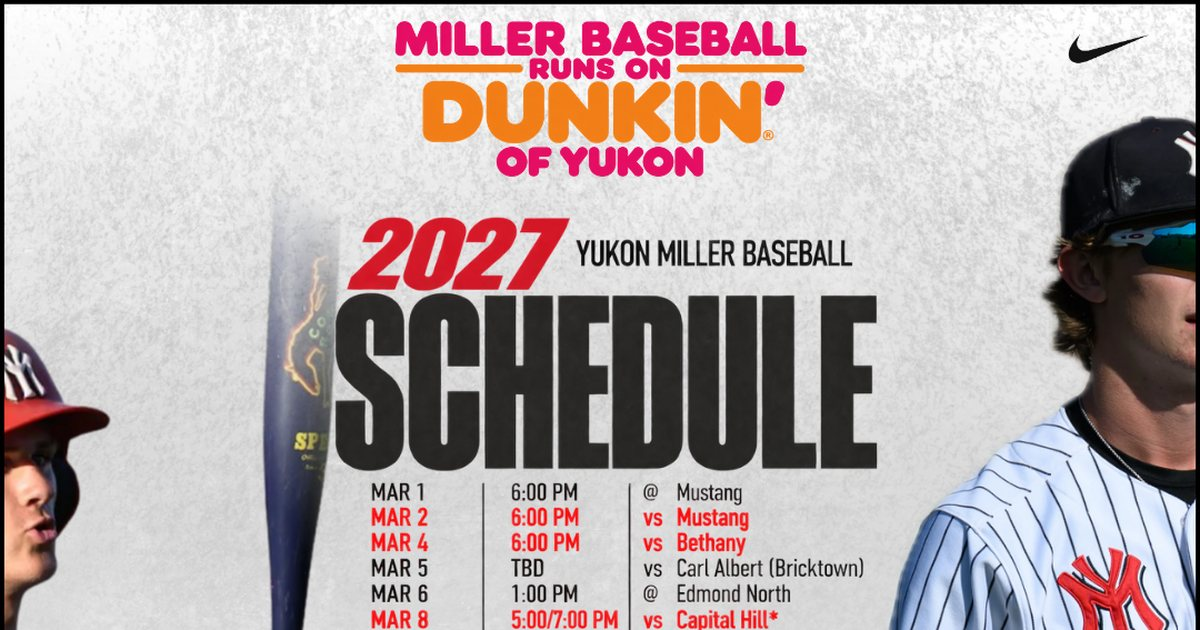
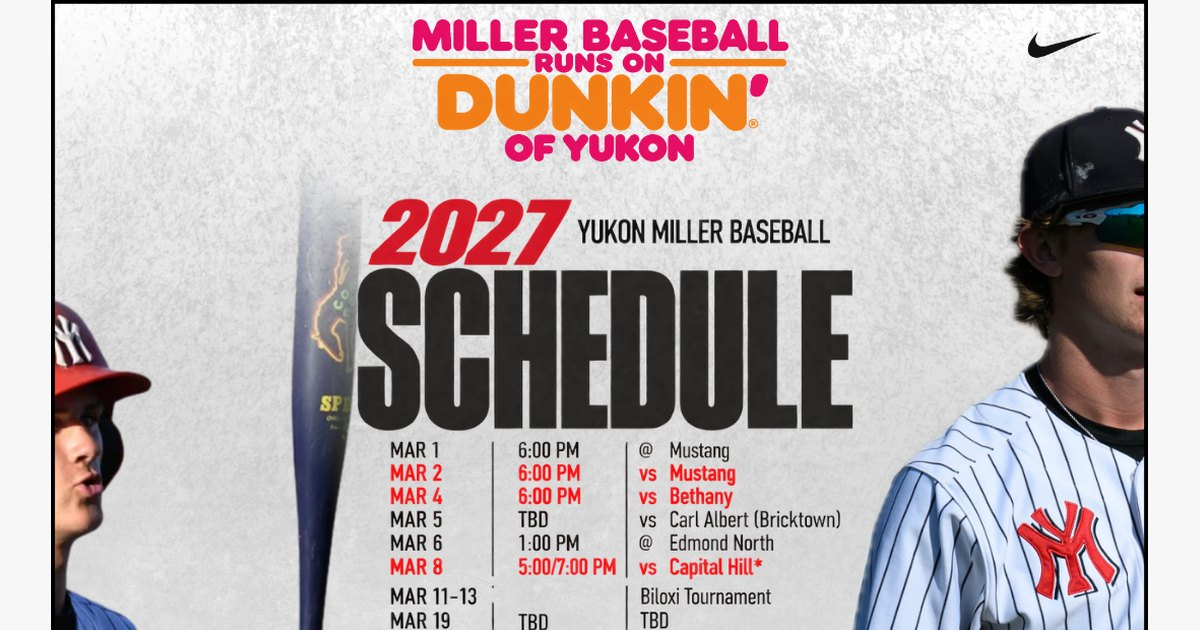
Add dedicated schedule graphic crops for home, news, and shares.
Homepage uses a wide banner, the news list uses a card crop, and social shares use the 1200x630 schedule graphic.

diff --git a/src/components/article-card-image.tsx b/src/components/article-card-image.tsx
@@ -4,19 +4,28 @@ import Image from "next/image";
 
 export function ArticleCardImage({
   image,
+  variant = "card",
   className,
 }: {
   image: ArticleImage;
+  variant?: "card" | "banner";
   className?: string;
 }) {
+  const chosen =
+    variant === "banner" && image.banner
+      ? image.banner
+      : variant === "card" && image.card
+        ? image.card
+        : image;
+
   return (
     <Image
-      src={image.src}
+      src={chosen.src}
       alt={image.alt}
-      width={image.width}
-      height={image.height}
+      width={chosen.width}
+      height={chosen.height}
       className={cn("object-cover", className)}
-      style={{ objectPosition: image.focus ?? "center 22%" }}
+      style={{ objectPosition: chosen.focus ?? image.focus ?? "center 22%" }}
     />
   );
 }

diff --git a/src/lib/news-2027-schedule.ts b/src/lib/news-2027-schedule.ts
@@ -14,6 +14,18 @@ export const schedule2027Story = {
     height: 1000,
     focus: "50% 18%",
     size: "feature" as const,
+    banner: {
+      src: "/images/news/yukon-millers-release-2027-schedule-banner.jpg",
+      width: 1600,
+      height: 680,
+      focus: "50% 50%",
+    },
+    card: {
+      src: "/images/news/yukon-millers-release-2027-schedule-card.jpg",
+      width: 800,
+      height: 640,
+      focus: "50% 40%",
+    },
   },
   body: [
     "Yukon Millers Baseball has released its 2027 schedule, featuring a challenging slate that includes two defending state champions, multiple tournaments and an out-of-state trip to Mississippi.",

diff --git a/src/lib/news.ts b/src/lib/news.ts
@@ -8,6 +8,13 @@ import { hofBanquetStory } from "@/lib/news-hof-banquet";
 import { joeLytleStory } from "@/lib/news-joe-lytle";
 import { schedule2027Story } from "@/lib/news-2027-schedule";
 
+export type ArticleImageVariant = {
+  src: string;
+  width: number;
+  height: number;
+  focus?: string;
+};
+
 export type ArticleImage = {
   src: string;
   alt: string;
@@ -16,6 +23,8 @@ export type ArticleImage = {
   focus?: string;
   size?: "half" | "feature";
   hero?: boolean;
+  card?: ArticleImageVariant;
+  banner?: ArticleImageVariant;
 };
 
 export type Article = {

diff --git a/src/app/news/page.tsx b/src/app/news/page.tsx
@@ -65,7 +65,8 @@ export default function NewsPage() {
                   {article.image ? (
                     <ArticleCardImage
                       image={article.image}
-                      className="mt-4 h-44 w-full rounded-xl sm:mt-0 sm:h-32 sm:w-40 sm:shrink-0"
+                      variant="card"
+                      className="mt-4 h-44 w-full rounded-xl object-cover sm:mt-0 sm:h-32 sm:w-40 sm:shrink-0"
                     />
                   ) : null}
                 </Link>

diff --git a/src/app/page.tsx b/src/app/page.tsx
@@ -151,7 +151,8 @@ export default function HomePage() {
                 {featured.image ? (
                   <ArticleCardImage
                     image={featured.image}
-                    className="h-56 w-full sm:h-72"
+                    variant="banner"
+                    className="h-56 w-full object-cover sm:h-72"
                   />
                 ) : null}
                 <div className="p-8 sm:p-10">
